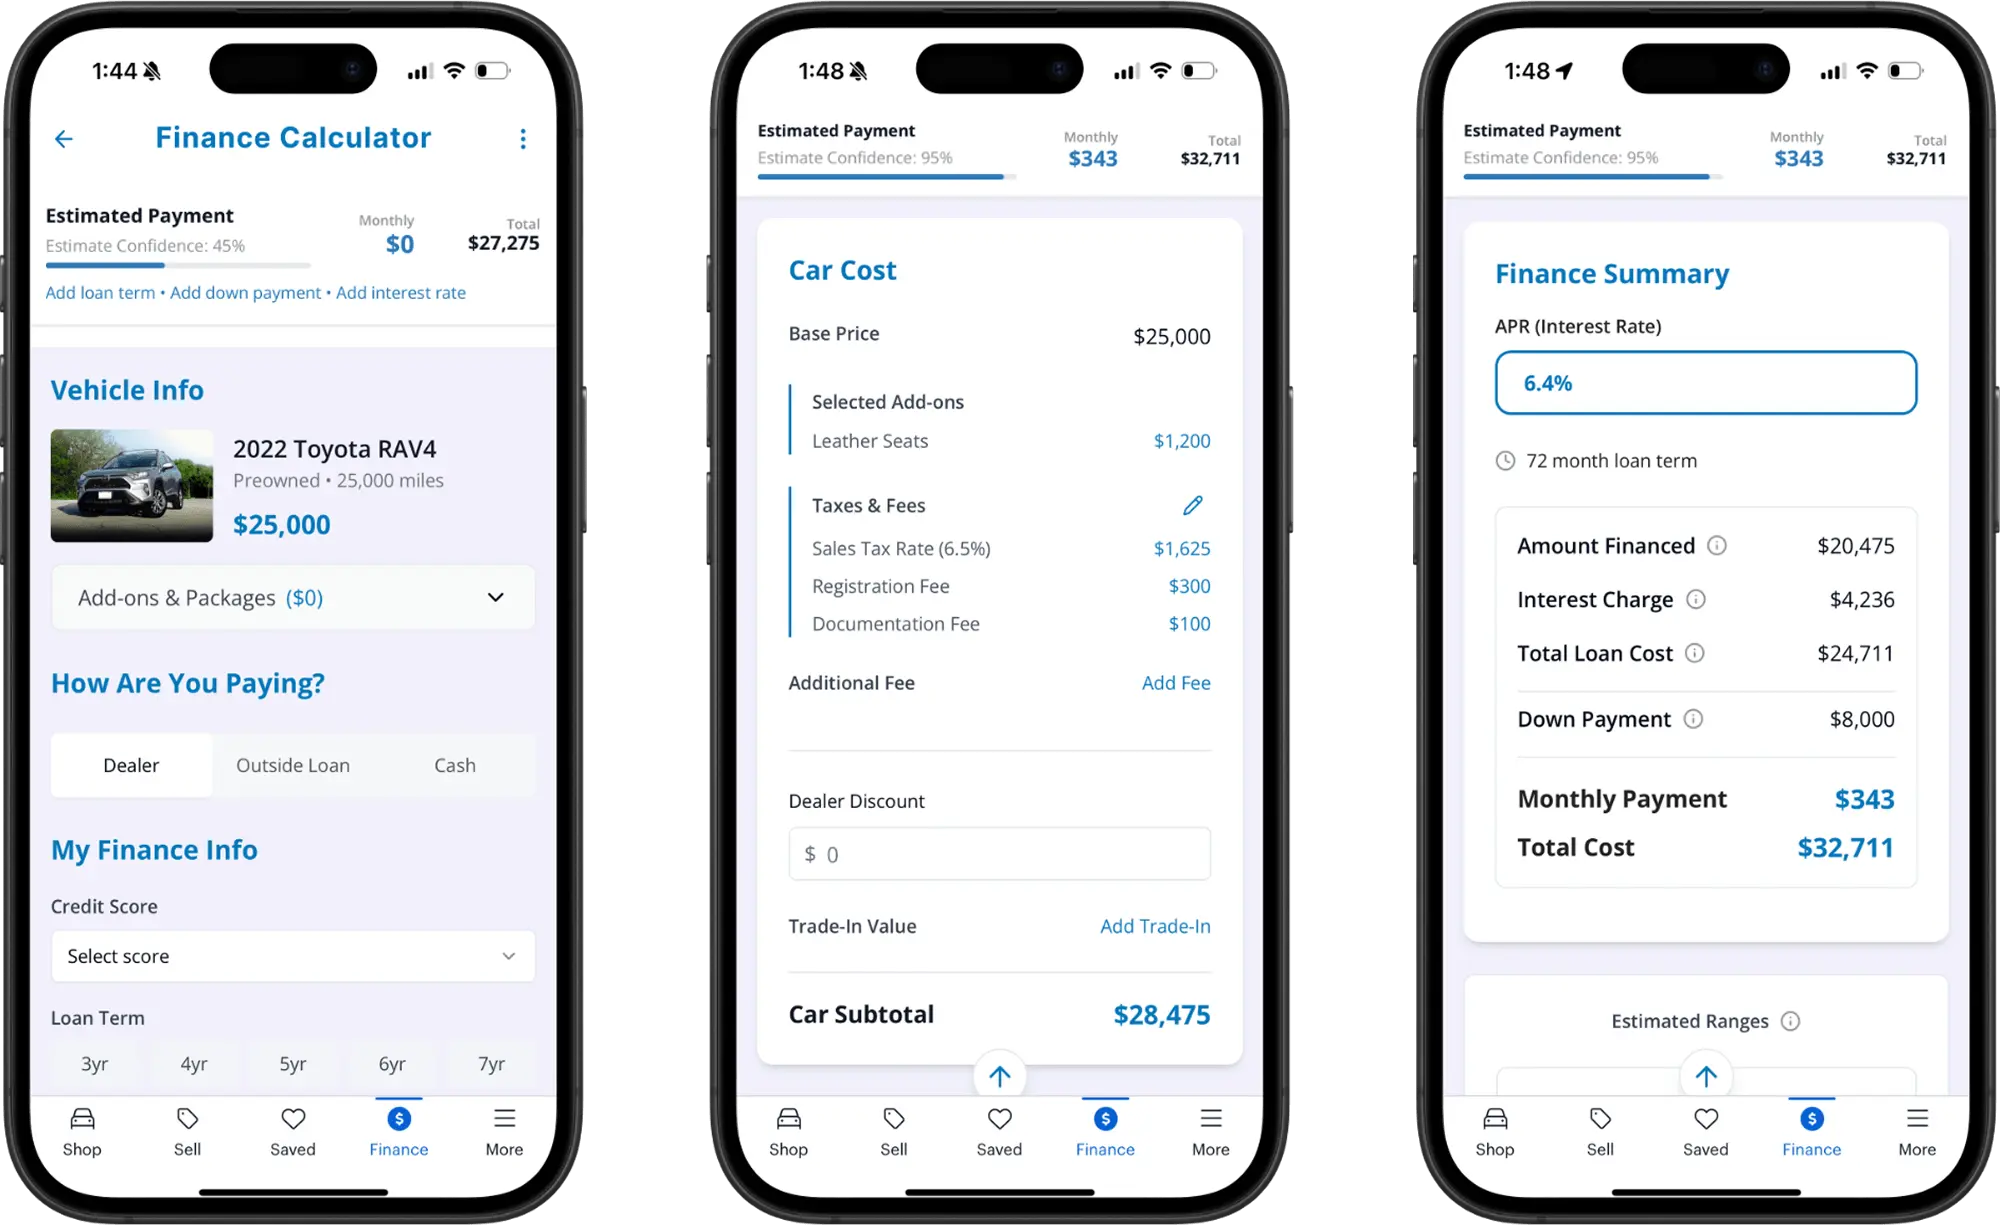
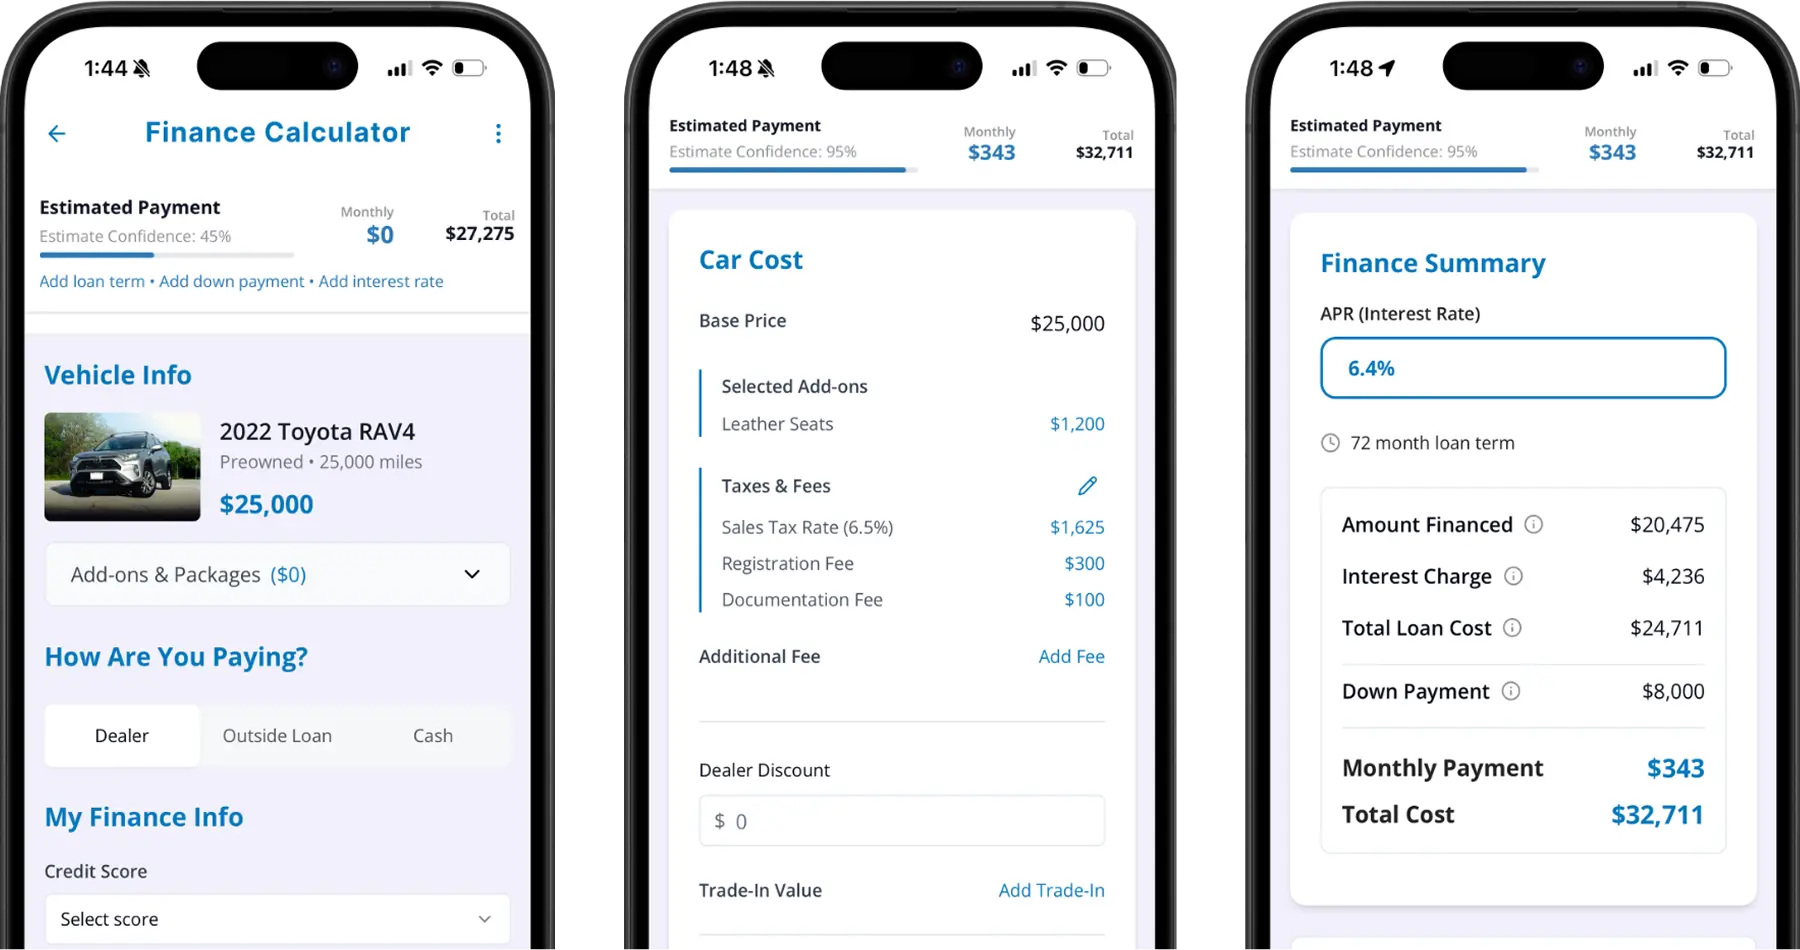
updated thumbnails

diff --git a/assets/style.css b/assets/style.css
@@ -593,7 +593,7 @@ img.work-logo {
 .work-preview.cargurus {
   border-color: #0578BB;
   background: #4298CA;
-  padding: 5.333% 5.333% 0 5.333%;
+  padding: 3.555% 3.555% 0 3.555%;
   box-sizing: border-box;
 }
 
@@ -615,25 +615,11 @@ img.work-logo {
 
 /* Thumbnail image - right and bottom aligned, max-width 788px, aspect ratio 788:424 */
 .thumbnail-image {
-  position: absolute;
-  bottom: 0;
-  right: 0;
-  max-width: 788px;
-  width: min(788px, 100%);
-  height: auto;
-  aspect-ratio: 788 / 424;
+  padding: 0 3.555% 0 3.555%;
   object-fit: contain;
   display: block;
   background: transparent;
   transition: transform 0.35s ease;
-}
-
-/* Responsive scaling - maintain bottom-right alignment while shrinking */
-@media (max-width: 900px) {
-  .thumbnail-image {
-    max-width: min(788px, calc(100vw * 0.876));
-    /* 788/900 = 0.876, maintain proportion of container */
-  }
 }
 
 /* real images scale by width, retain aspect ratio */
@@ -671,10 +657,7 @@ img.work-logo {
   transition: transform 0.3s ease;
 }
 
-.work-preview:hover .work-preview-placeholder,
-.work-preview:hover img {
-  transform: scale(1.02);
-}
+
 
 /* See project link matches sidebar nav styling */
 .see-project-link {

diff --git a/pages/bodegabay.html b/pages/bodegabay.html
@@ -132,7 +132,7 @@
           <div class="summary-right">
             <div class="summary-meta-item">
               <p class="summary-meta-label">Timeline</p>
-              <p class="summary-meta-value">July - November 2025</p>
+              <p class="summary-meta-value">July - December 2025</p>
             </div>
             <div class="summary-meta-item">
               <p class="summary-meta-label">Team</p>
